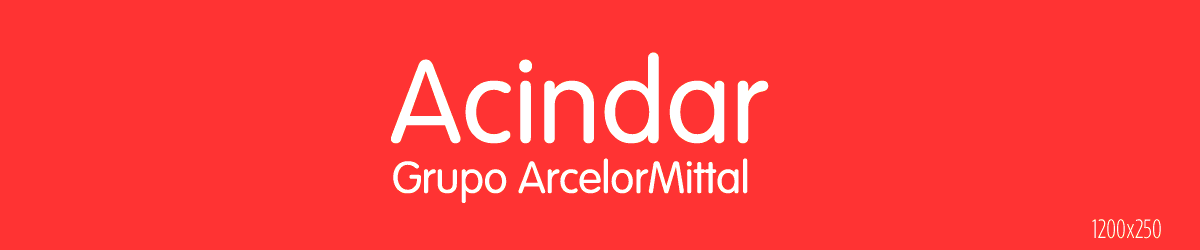
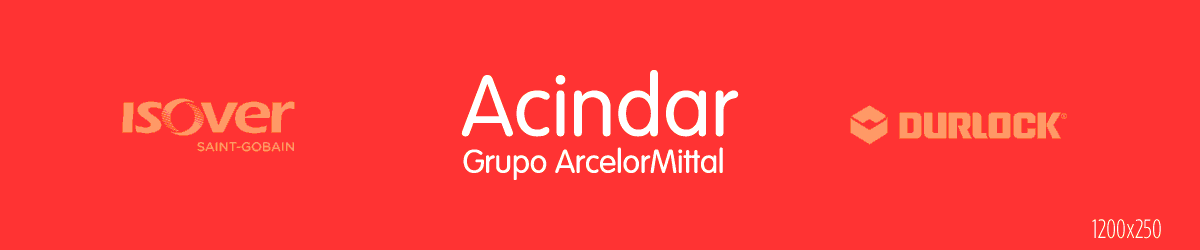
dom8

diff --git a/index.html b/index.html
@@ -210,11 +210,11 @@
                         
                     </div>
                     <div class="carousel-item">
-                        <img src="media/slideMarcas/acindar.png" class="d-block w-100" alt="...">
+                        <img src="media/slideMarcas/isover.png" class="d-block w-100" alt="...">
                         
                     </div>
                     <div class="carousel-item">
-                        <img src="media/slideMarcas/acindar.png" class="d-block w-100" alt="...">
+                        <img src="media/slideMarcas/durlock.png" class="d-block w-100" alt="...">
                         
                     </div>
                 </div>
